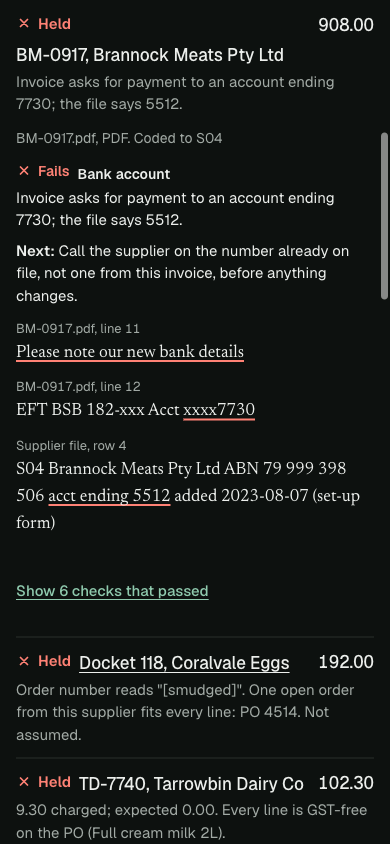
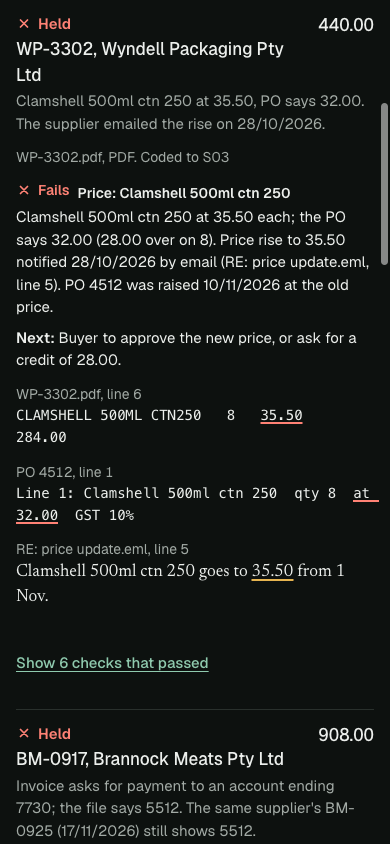
Apply review: the clamshell price hold finds the supplier's own price email, the new bank account is set against the next invoice that still shows the old one, consistent row heads, 14px floor, document rows in mono, plain docket wording, README limits

diff --git a/check.js b/check.js
@@ -120,6 +120,34 @@ function matchLines(items, po) {
   });
 }
 
+// Another invoice in the batch from the same ABN that still shows the account on file.
+function otherWithAccount(inv, data, abn, acct) {
+  for (const o of data.invoices) {
+    if (o.id === inv.id) continue;
+    const q = parseInvoice(o.text);
+    if (q.abn && q.abn.value === abn && q.acct && q.acct.value === acct) return { file: o.file, invNo: q.invNo ? q.invNo.value : o.file, date: q.date ? q.date.value : "", acct: q.acct };
+  }
+  return null;
+}
+
+// A line in the supplier's own mail that names this item and the invoiced price.
+export function findPriceNotice(data, supplier, item, price) {
+  if (!supplier || !data.emails) return null;
+  const want = new Set(tokens(supplier.name));
+  for (const em of data.emails) {
+    const lines = em.text.split(/\r?\n/);
+    const from = lines.find((l) => /^From\s/i.test(l));
+    if (!from || !tokens(from).filter((t) => t !== "from" && t !== "account").every((t) => want.has(t))) continue;
+    const need = tokens(item);
+    for (let i = 0; i < lines.length; i++) {
+      const have = new Set(tokens(lines[i]));
+      const covered = need.filter((t) => have.has(t)).length / need.length;
+      if (covered >= 0.75 && lines[i].includes(money(price))) return { file: em.file, date: em.date, ln: i + 1, text: lines[i], mark: money(price) };
+    }
+  }
+  return null;
+}
+
 // ---------- one invoice ----------
 export function checkInvoice(inv, data, seen = [], opts = {}) {
   const p = parseInvoice(inv.text);
@@ -159,9 +187,13 @@ export function checkInvoice(inv, data, seen = [], opts = {}) {
   if (supplier) {
     if (!p.acct) add({ key: "bank", label: "Bank account", verdict: "none", blocking: false, say: `No bank details on the document. Pay to the account on file (ending ${supplier.acct}).`, ev: [{ ...supplierRow(supplier, sIndex(supplier)), marks: [`acct ending ${supplier.acct}`], tone: "pass" }] });
     else if (p.acct.value === supplier.acct) add({ key: "bank", label: "Bank account", verdict: "pass", blocking: false, say: `Account ending ${p.acct.value} matches the file.`, ev: [invEv(inv, p.acct, p.acct.mark, "pass"), { ...supplierRow(supplier, sIndex(supplier)), marks: [`acct ending ${supplier.acct}`], tone: "pass" }] });
-    else add({ key: "bank", label: "Bank account", verdict: "fail", say: `Invoice asks for payment to an account ending ${p.acct.value}; the file says ${supplier.acct}.`,
+    else {
+      const other = otherWithAccount(inv, data, p.abn.value, supplier.acct);
+      add({ key: "bank", label: "Bank account", verdict: "fail", say: `Invoice asks for payment to an account ending ${p.acct.value}; the file says ${supplier.acct}.${other ? ` The same supplier's ${other.invNo} (${other.date}) still shows ${supplier.acct}.` : ""}`,
       ask: "Call the supplier on the number already on file, not one from this invoice, before anything changes.",
-      ev: [...(p.bankNote ? [invEv(inv, p.bankNote, p.bankNote.mark, "fail")] : []), invEv(inv, p.acct, p.acct.mark, "fail"), { ...supplierRow(supplier, sIndex(supplier)), marks: [`acct ending ${supplier.acct}`], tone: "fail" }] });
+      ev: [...(p.bankNote ? [invEv(inv, p.bankNote, p.bankNote.mark, "fail")] : []), invEv(inv, p.acct, p.acct.mark, "fail"), { ...supplierRow(supplier, sIndex(supplier)), marks: [`acct ending ${supplier.acct}`], tone: "fail" },
+        ...(other ? [{ doc: other.file, ln: other.acct.ln, text: other.acct.text, marks: [other.acct.mark], tone: "fail" }] : [])] });
+    }
   }
 
   // 4. Purchase order
@@ -173,7 +205,8 @@ export function checkInvoice(inv, data, seen = [], opts = {}) {
       ev: p.po ? [invEv(inv, p.po, p.po.mark, "none")] : [] });
   } else if (!p.po || !p.po.value) {
     const cands = data.pos.filter((x) => sameSupplier(x) && matchLines(p.items, x).every((m) => m.poLine));
-    const said = p.po ? `Order number reads "${p.po.raw}".` : "No order number on the document.";
+    const bracket = p.po && p.po.raw.match(/^\[(.+)\]$/);
+    const said = !p.po ? "No order number on the document." : bracket ? `Order number is ${bracket[1]}.` : `Order number reads "${p.po.raw}".`;
     const c = add({ key: "po", label: "Purchase order", verdict: "none", say: cands.length === 1 ? `${said} One open order from this supplier fits every line: PO ${cands[0].po}. Not assumed.` : `${said} ${cands.length ? cands.length + " orders could fit" : "No order fits"}; not assumed.`,
       ask: cands.length === 1 ? `Confirm PO ${cands[0].po} with the receiver, then post against it.` : "Ask the supplier for the order number.",
       ev: p.po ? [invEv(inv, p.po, p.po.mark, "fail")] : [] });
@@ -208,8 +241,15 @@ export function checkInvoice(inv, data, seen = [], opts = {}) {
       if (it.price > poLine.price + MONEY_TOL) {
         row.issues.push("price");
         const over = (it.price - poLine.price) * it.qty;
-        add({ key: `price${it.ln}`, label: `Price: ${poLine.item}`, verdict: "fail", say: `${poLine.item} at ${money(it.price)} each; the PO says ${money(poLine.price)}. ${money(over)} over on ${it.qty}.`, ask: `Post at the PO price and ask for a credit of ${money(over)}, or have the buyer approve the new price.`,
-          ev: [invEv(inv, it, [it.marks.price], "fail"), { ...poRow(po, poLine), marks: [`at ${money(poLine.price)}`], tone: "fail" }] });
+        const notice = findPriceNotice(data, supplier, poLine.item, it.price);
+        add({ key: `price${it.ln}`, label: `Price: ${poLine.item}`, verdict: "fail",
+          say: notice
+            ? `${poLine.item} at ${money(it.price)} each; the PO says ${money(poLine.price)} (${money(over)} over on ${it.qty}). Price rise to ${money(it.price)} notified ${notice.date} by email (${notice.file}, line ${notice.ln}). PO ${po.po} was raised ${po.date} at the old price.`
+            : `${poLine.item} at ${money(it.price)} each; the PO says ${money(poLine.price)}. ${money(over)} over on ${it.qty}.`,
+          short: notice ? `${poLine.item} at ${money(it.price)}, PO says ${money(poLine.price)}. The supplier emailed the rise on ${notice.date}.` : undefined,
+          ask: notice ? `Buyer to approve the new price, or ask for a credit of ${money(over)}.` : `Post at the PO price and ask for a credit of ${money(over)}, or have the buyer approve the new price.`,
+          ev: [invEv(inv, it, [it.marks.price], "fail"), { ...poRow(po, poLine), marks: [`at ${money(poLine.price)}`], tone: "fail" },
+            ...(notice ? [{ doc: notice.file, ln: notice.ln, text: notice.text, marks: [notice.mark], tone: "none", prose: true }] : [])] });
       }
       if (!eq(it.qty * it.price, it.amount)) {
         row.issues.push("amount");
@@ -249,7 +289,7 @@ export function checkInvoice(inv, data, seen = [], opts = {}) {
   const status = twin ? "duplicate" : checks.some((c) => c.blocking && c.verdict !== "pass") ? "held" : "post";
   const open = checks.filter((c) => c.blocking && c.verdict !== "pass");
   return { id: inv.id, file: inv.file, how: inv.how, parsed: p, supplier, onFile, po, lines, checks, open, status,
-    invNo: p.invNo ? p.invNo.value : null, total: p.total ? p.total.value : null, reason: twin ? open.find((c) => c.key === "duplicate").say : open.length ? open[0].say : "Every check passed.", confirmedPo: opts.poOverride || null };
+    invNo: p.invNo ? p.invNo.value : null, total: p.total ? p.total.value : null, reason: twin ? open.find((c) => c.key === "duplicate").say : open.length ? (open[0].short || open[0].say) : "Every check passed.", confirmedPo: opts.poOverride || null };
   }
 }
 

diff --git a/style.css b/style.css
@@ -59,7 +59,7 @@ h2 { font-size: 20px; font-weight: 600; letter-spacing: -.01em; margin: 0 0 var(
 .row-item { border-top: 1px solid var(--line); }
 .row { display: grid; grid-template-columns: 1fr auto; column-gap: var(--s3); width: 100%; text-align: left; background: none; border: 0; padding: var(--s3) 0; min-height: 56px; cursor: pointer; transition: transform 120ms var(--ease-out); }
 .row:active { transform: scale(.985); }
-.row-top { display: flex; align-items: baseline; gap: var(--s2); flex-wrap: wrap; min-width: 0; }
+.row-top { display: grid; grid-template-columns: 1fr; row-gap: 2px; min-width: 0; }
 .verdict { display: inline-flex; align-items: center; gap: 6px; font-weight: 600; font-size: 15px; white-space: nowrap; }
 .verdict svg { width: 16px; height: 16px; flex: none; }
 .v-pass { color: var(--pass); } .v-fail { color: var(--fail); } .v-none { color: var(--none); }
@@ -86,8 +86,9 @@ h2 { font-size: 20px; font-weight: 600; letter-spacing: -.01em; margin: 0 0 var(
 
 .ev { margin: var(--s3) 0 0; padding: 0; list-style: none; }
 .ev li { margin: 0 0 var(--s3); }
-.ev-src { display: block; font-size: 13px; color: var(--muted); font-variant-numeric: tabular-nums; }
-.ev-q { font-family: var(--serif); font-size: 17px; line-height: 1.45; overflow-wrap: anywhere; }
+.ev-src { display: block; font-size: 14px; color: var(--muted); font-variant-numeric: tabular-nums; }
+.ev-q { display: block; font-family: var(--serif); font-size: 17px; line-height: 1.45; overflow-wrap: anywhere; }
+.ev-q.row-q { font: 400 14px/1.6 var(--mono); white-space: pre-wrap; overflow-wrap: anywhere; }
 .ev-q mark { background: linear-gradient(currentColor, currentColor) 0 100% / 0 2px no-repeat; color: inherit; padding-bottom: 1px; }
 .ev-q mark.t-pass { background-image: linear-gradient(var(--pass), var(--pass)); }
 .ev-q mark.t-fail { background-image: linear-gradient(var(--fail), var(--fail)); }
@@ -111,13 +112,13 @@ h2 { font-size: 20px; font-weight: 600; letter-spacing: -.01em; margin: 0 0 var(
 .dry-h { margin: var(--s5) 0 var(--s2); font-size: 15px; font-weight: 600; }
 .dry-list { list-style: none; margin: 0; padding: 0; border-bottom: 1px solid var(--line); font-size: 14px; font-variant-numeric: tabular-nums; }
 .dry-list li { border-top: 1px solid var(--line); padding: var(--s2) 0; display: grid; grid-template-columns: 1fr auto; column-gap: var(--s3); }
-.dry-list .src { grid-column: 1 / -1; color: var(--muted); font-size: 13px; }
+.dry-list .src { grid-column: 1 / -1; color: var(--muted); font-size: 14px; }
 
 /* Merge */
 .merge-recs { list-style: none; margin: var(--s3) 0 0; padding: 0; font-size: 15px; }
 .merge-recs li { padding: var(--s2) 0; border-top: 1px solid var(--line); font-variant-numeric: tabular-nums; }
 .merge-recs .id { font-weight: 600; margin-right: var(--s2); }
-.merge-recs .src { display: block; color: var(--muted); font-size: 13px; }
+.merge-recs .src { display: block; color: var(--muted); font-size: 14px; }
 
 /* Documents */
 .tabs { display: flex; flex-wrap: wrap; gap: var(--s2); margin: var(--s3) 0; }
@@ -125,11 +126,12 @@ h2 { font-size: 20px; font-weight: 600; letter-spacing: -.01em; margin: 0 0 var(
 .tab[aria-selected="true"] { border-color: var(--ink); font-weight: 600; }
 .doc-pick { display: flex; flex-wrap: wrap; gap: var(--s2); margin-bottom: var(--s3); }
 .doc-pick .tab { font-size: 14px; }
-.doc { margin: 0; font: 400 13px/1.6 var(--mono); background: var(--surface); border: 1px solid var(--line); border-radius: 6px; padding: var(--s3); overflow-x: auto; white-space: pre; }
+.doc { margin: 0 0 var(--s4); font: 400 14px/1.6 var(--mono); background: var(--surface); border: 1px solid var(--line); border-radius: 6px; padding: var(--s3); overflow-x: auto; white-space: pre; }
 .doc .n { color: var(--muted); display: inline-block; min-width: 2.2em; -webkit-user-select: none; user-select: none; }
 
 .foot { margin-top: var(--s7); padding-top: var(--s4); border-top: 1px solid var(--line); font-size: 14px; color: var(--muted); }
 .foot p { margin: 0 0 var(--s2); }
+.foot a { display: inline-flex; align-items: center; min-height: 44px; }
 
 @media (min-width: 720px) {
   .shell { padding-top: var(--s7); }

diff --git a/check.test.js b/check.test.js
@@ -89,7 +89,7 @@ test("inv02 held: invoiced 10 skim milk, received 8", () => {
 test("inv03 held: clamshells at 35.50 against 32.00 on the PO, 28.00 over", () => {
   const c = check("inv03", "price");
   assert.equal(byId("inv03").status, "held");
-  assert.match(c.say, /35\.50 each; the PO says 32\.00\. 28\.00 over/);
+  assert.match(c.say, /35\.50 each; the PO says 32\.00 \(28\.00 over on 8\)/);
   assert.equal(byId("inv03").checks.filter((x) => x.verdict === "fail").length, 1, "the lid line is fine");
 });
 
@@ -115,6 +115,7 @@ test("inv06 held: unreadable order number, one candidate offered, never assumed"
   assert.equal(c.verdict, "none");
   assert.equal(c.suggest, "4514");
   assert.match(c.say, /Not assumed/);
+  assert.match(c.say, /^Order number is smudged\./, "no transcription brackets in the reason");
   assert.equal(r.po, null);
 });
 
@@ -200,4 +201,39 @@ test("the export needs a named approver and carries only invoices that can post"
   assert.ok(!csv.includes("TD-7731") && !csv.includes("BM-0917") && !csv.includes("scan_0042"));
   assert.ok(rows.slice(1).every((r) => r.includes("Dana") && / line \d+$/.test(r)));
   assert.equal(abnDigits(rows[1].split(",")[2]), "37492282788");
+});
+
+test("the reason for the clamshell price is found in the supplier's email, and the invoice is still held", () => {
+  const c = check("inv03", "price");
+  assert.equal(byId("inv03").status, "held");
+  assert.match(c.say, /Price rise to 35\.50 notified 28\/10\/2026 by email \(RE: price update\.eml, line 5\)/);
+  assert.match(c.say, /PO 4512 was raised 10\/11\/2026 at the old price/);
+  assert.match(c.ask, /Buyer to approve the new price, or ask for a credit of 28\.00/);
+  const mail = c.ev.find((e) => e.doc === "RE: price update.eml");
+  assert.equal(S.emails[0].text.split("\n")[mail.ln - 1], mail.text);
+  assert.ok(mail.text.includes("35.50"));
+});
+
+test("a price over the order with no notice in the mail says so plainly", () => {
+  const data = { ...S, emails: [] };
+  const r = runAll(data).results.find((x) => x.id === "inv03");
+  assert.equal(r.status, "held");
+  assert.doesNotMatch(r.checks.find((c) => c.key.startsWith("price")).say, /notified/);
+});
+
+test("a price notice from another supplier is not used", () => {
+  const data = { ...S, emails: [{ ...S.emails[0], text: S.emails[0].text.replace(/Wyndell Packaging/g, "Fenwold Dry Goods") }] };
+  const r = runAll(data).results.find((x) => x.id === "inv03");
+  assert.doesNotMatch(r.checks.find((c) => c.key.startsWith("price")).say, /notified/);
+});
+
+test("the new bank account is set against the same supplier's next invoice, which still shows the old one", () => {
+  const c = check("inv05", "bank");
+  assert.match(c.say, /BM-0925 \(17\/11\/2026\) still shows 5512/);
+  const next = c.ev.find((e) => e.doc === "BM-0925.pdf");
+  assert.equal(S.invoices.find((i) => i.file === "BM-0925.pdf").text.split("\n")[next.ln - 1], next.text);
+});
+
+test("the row reason for the price hold is short and names the email", () => {
+  assert.match(byId("inv03").reason, /The supplier emailed the rise on 28\/10\/2026/);
 });

diff --git a/app.js b/app.js
@@ -32,7 +32,8 @@ function srcLabel(e) {
   if (!e.ln) return e.doc;
   return `${e.doc}, line ${e.ln}`;
 }
-const evList = (ev) => ev.length ? `<ul class="ev">${ev.map((e) => `<li><span class="ev-src">${esc(srcLabel(e))}</span><span class="ev-q">${quote(e.text, e.marks || [], e.tone || "pass")}</span></li>`).join("")}</ul>` : "";
+// Prose (an email sentence) is set in the serif; document rows (invoice lines, PO lines, file rows) in mono.
+const evList = (ev) => ev.length ? `<ul class="ev">${ev.map((e) => `<li><span class="ev-src">${esc(srcLabel(e))}</span><span class="ev-q${e.prose ? "" : " row-q"}">${quote(e.text, e.marks || [], e.tone || "pass")}</span></li>`).join("")}</ul>` : "";
 
 // ---------- name gate: every approval records who made it ----------
 function askName(where, then) {
@@ -137,7 +138,7 @@ function renderApprove() {
 }
 
 function renderSources() {
-  const tabs = [["inv", "Invoices"], ["po", "Orders"], ["grn", "Receipts"], ["sup", "Supplier file"]];
+  const tabs = [["inv", "Invoices"], ["mail", "Emails"], ["po", "Orders"], ["grn", "Receipts"], ["sup", "Supplier file"]];
   $("#src-tabs").innerHTML = tabs.map(([k, t]) => `<button class="tab" type="button" role="tab" aria-selected="${state.srcTab === k}" data-tab="${k}">${t}</button>`).join("");
   const numbered = (lines) => `<pre class="doc">${lines.map((l, i) => `<span class="n">${i + 1}</span>${esc(l)}`).join("\n")}</pre>`;
   let body = "";
@@ -145,6 +146,8 @@ function renderSources() {
     const inv = S.invoices.find((i) => i.id === state.srcDoc);
     body = `<div class="doc-pick">${S.invoices.map((i) => `<button class="tab" type="button" aria-pressed="${i.id === inv.id}" ${i.id === inv.id ? 'aria-selected="true"' : ""} data-doc="${i.id}">${esc(i.file)}</button>`).join("")}</div>
       <p class="small muted">${esc(inv.how)}, as read from the file.</p>${numbered(inv.text.split("\n"))}`;
+  } else if (state.srcTab === "mail") {
+    body = S.emails.map((m) => `<p class="small muted">${esc(m.file)}, received ${esc(m.date)}</p>${numbered(m.text.split("\n"))}`).join("");
   } else if (state.srcTab === "po") {
     body = S.pos.map((p) => `<p class="small muted">PO ${p.po}, raised ${p.date} to ${p.supplier}</p>${numbered(p.lines.map((l) => `${l.item}  qty ${l.qty}  at ${money(l.price)}  GST ${l.gst === "free" ? "free" : "10%"}`))}`).join("");
   } else if (state.srcTab === "grn") {

diff --git a/samples.js b/samples.js
@@ -71,6 +71,18 @@ export const receipts = [
   { grn: "R-8811", po: "4520", ln: 1, qty: 6, date: "17/11/2026", by: "Leah" },
 ];
 
+// Other mail in the same inbox: one supplier's price notice from late October.
+export const emails = [
+  { id: "em01", file: "RE: price update.eml", date: "28/10/2026", text:
+`From Wyndell Packaging accounts
+Date 28/10/2026
+Subject Price update from 1 November
+Hi team, resin costs have gone up again.
+Clamshell 500ml ctn 250 goes to 35.50 from 1 Nov.
+Lids stay at 14.50.
+Thanks, Wyndell Packaging` },
+];
+
 // The AP inbox for one morning, as text read from each PDF, scan or photo.
 export const invoices = [
   { id: "inv01", file: "KF-20481.pdf", how: "PDF", text:

diff --git a/README.md b/README.md
@@ -2,19 +2,19 @@
 
 A wholesaler's accounts inbox fills up overnight: PDFs, a scan the supplier sent twice, a photo of a handwritten docket. Someone opens each one, finds the order, checks it against what the dock signed for, and keys it in. The costly mistakes are quiet ones: a price that went up on one line, two cartons that never arrived, GST on milk, a polite note asking you to pay a new bank account.
 
-This page does that check before anything posts. Each invoice is matched line by line to its purchase order and to the goods received. Every figure it uses points at the document line or the file row it came from. Anything that does not match is held, with the reason and the next step. A person approves what goes into the import file.
+This page does that check before anything posts. Each invoice is matched line by line to its purchase order and to the goods received. Every figure it uses points at the document line or the file row it came from. Anything that does not match is held, with the reason and the next step. Where the reason is sitting in the supplier's own mail, it finds it. Someone signs off the import file by name.
 
 It is plain code. There is no model in it. The sample is made up.
 
 ## The sample
 
-One morning at Hallowbrook Foods, a made-up Brisbane meal-kit kitchen: 12 invoices from 6 suppliers, 11 purchase orders, the receiving sheet, and the supplier file.
+One morning at Hallowbrook Foods, a made-up Brisbane meal-kit kitchen: 12 invoices from 6 suppliers, one supplier email, 11 purchase orders, the receiving sheet, and the supplier file.
 
 Result: **6 of 12 can post. 5 held, 1 duplicate.**
 
 - **TD-7731:** 10 skim milk invoiced, 8 received at the dock.
-- **WP-3302:** clamshells at 35.50 each against 32.00 on the order, 28.00 over.
-- **BM-0917:** asks for payment to a new bank account. Held until someone calls the supplier on the number already on file.
+- **WP-3302:** clamshells at 35.50 each against 32.00 on the order, 28.00 over. The reason is in the inbox: the supplier emailed a rise to 35.50 on 28 Oct, and the order was raised on 10 Nov at the old price. Still held: the buyer approves the new price or asks for a credit.
+- **BM-0917:** asks for payment to a new bank account. The same supplier's next invoice, BM-0925, still shows the old one. Held until someone calls the supplier on the number already on file.
 - **Docket 118:** the order number is smudged. One open order fits every line (PO 4514); the page says so but does not assume it. When a person confirms it, the docket posts and the record says who confirmed it.
 - **TD-7740:** GST charged on milk, which is GST-free.
 - **20481 (scan):** the same invoice as KF-20481, emailed again. Stopped.
@@ -27,19 +27,19 @@ The supplier file also has one supplier under three records (same ABN, same acco
 2. **Same invoice, same supplier, stop.** Invoice numbers are compared on their digits, so KF-20481 and 20481 are the same.
 3. **Bank account must match the file.** A change is never accepted from the invoice itself.
 4. **Every line matches a PO line.** Matching is on the words of the description (plurals, carton sizes and dozens lined up). A line with no clear match says not found; it is never guessed.
-5. **No more than received, no more than ordered.** Quantity against the receiving sheet; price against the order.
+5. **No more than received, no more than ordered.** Quantity against the receiving sheet; price against the order. When the price is over, the supplier's mail is searched for a line naming the item and the new price, and that line is shown as the reason. It does not clear the hold.
 6. **GST is 10% of the taxable lines only.** Basic food on these orders is GST-free; packaging is taxable.
 7. **It adds up.** Line totals, subtotal, GST and total.
 8. **A named approver.** The import file is only written with a name, and each row carries the file and line it came from.
 
 ## Run it
 
-Open `index.html` through any static server (`python3 -m http.server`). Tests: `npm test` (26 tests, Node 20 or later, no dependencies).
+Open `index.html` through any static server (`python3 -m http.server`). Tests: `npm test` (31 tests, Node 20 or later, no dependencies).
 
 ## Files
 
 - `check.js`: reading, matching and the rules. No network, no model.
-- `samples.js`: the made-up morning.
+- `samples.js`: the made-up morning, including the supplier email.
 - `app.js`, `index.html`, `style.css`: the page.
 - `check.test.js`: the tests.
 - `shots/`: phone and desktop, light and dark.
@@ -50,6 +50,7 @@ Open `index.html` through any static server (`python3 -m http.server`). Tests: `
 - The import file is a generic CSV, not any one accounts system's format.
 - Matching is on description words. A real version would also learn each supplier's own item codes and units.
 - GST treatment comes from the order line. Real GST rules for food have edge cases; this sample keeps to plain milk, fresh produce, meat, eggs, flour, rice and oats (GST-free) and packaging (taxable).
+- Duplicates are checked within the batch only. A real version checks the invoice history too; duplicates often arrive weeks apart.
 - Tolerances are exact. Real teams usually allow a small price or quantity tolerance per supplier.
 - Bank details are shown only as the last four digits.
 - Not tested on a real phone.
